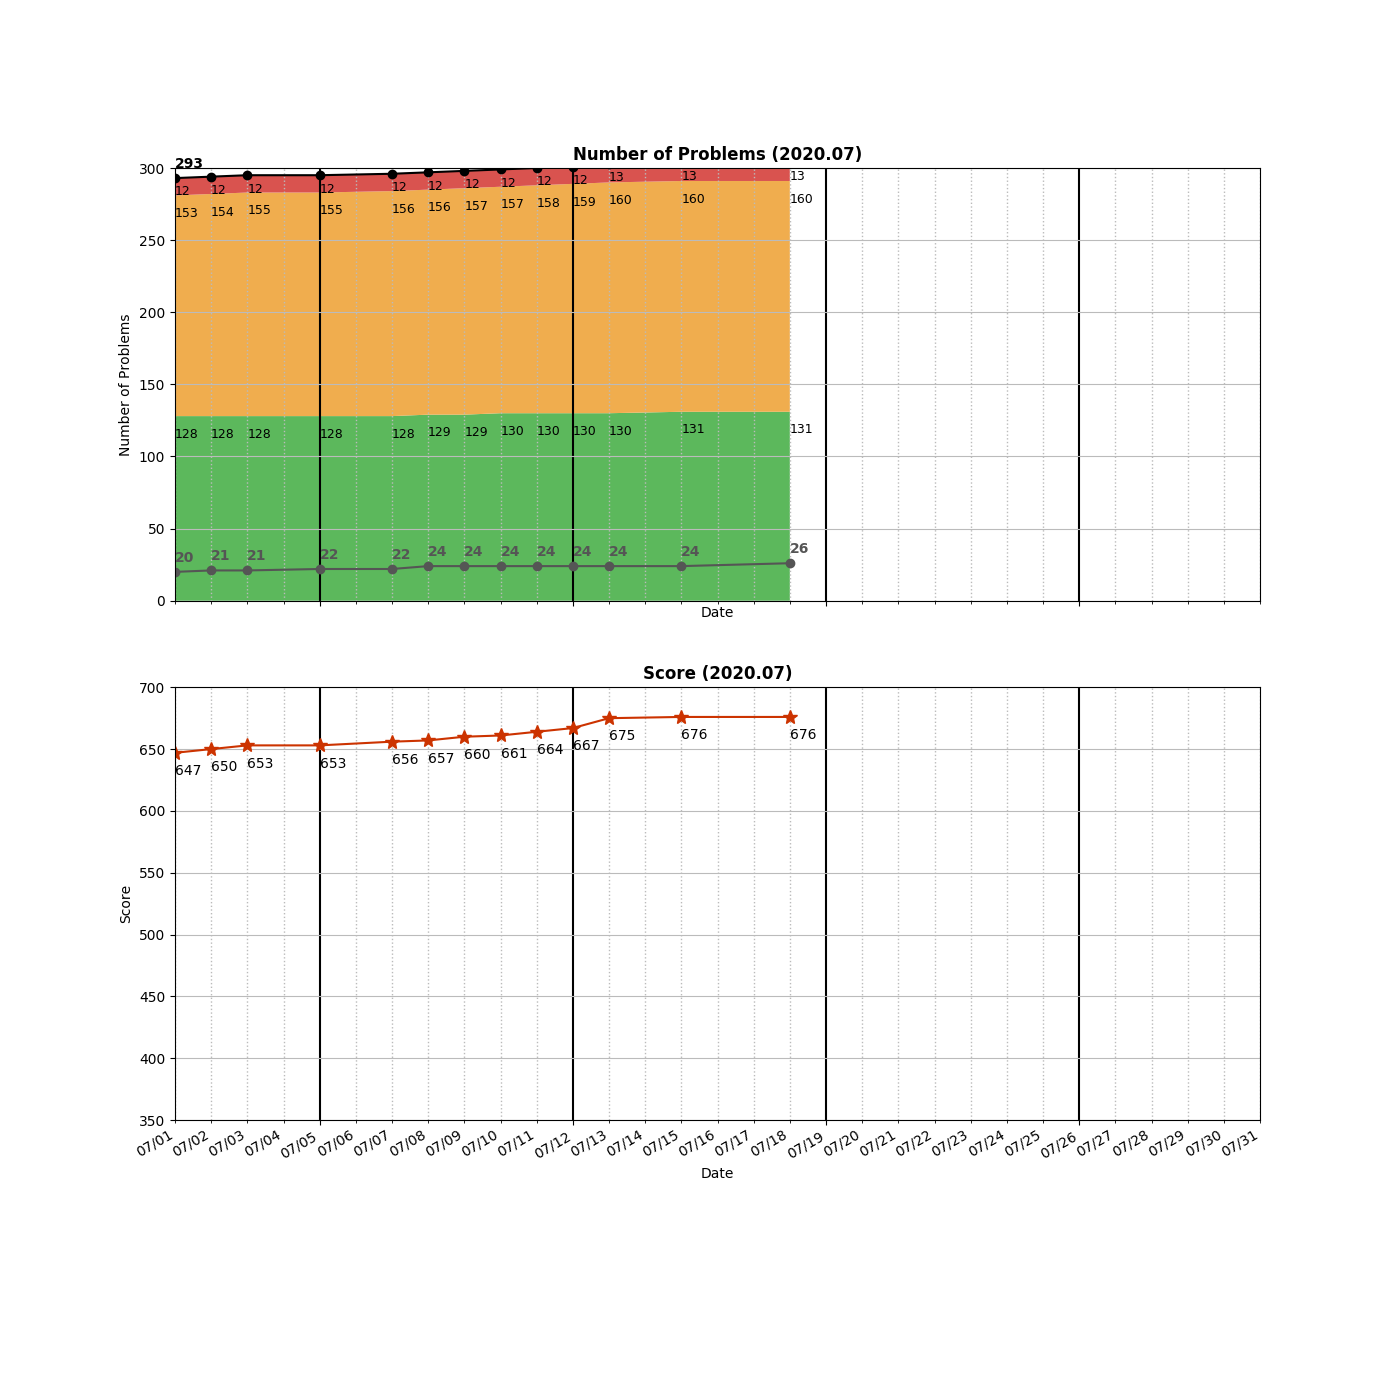
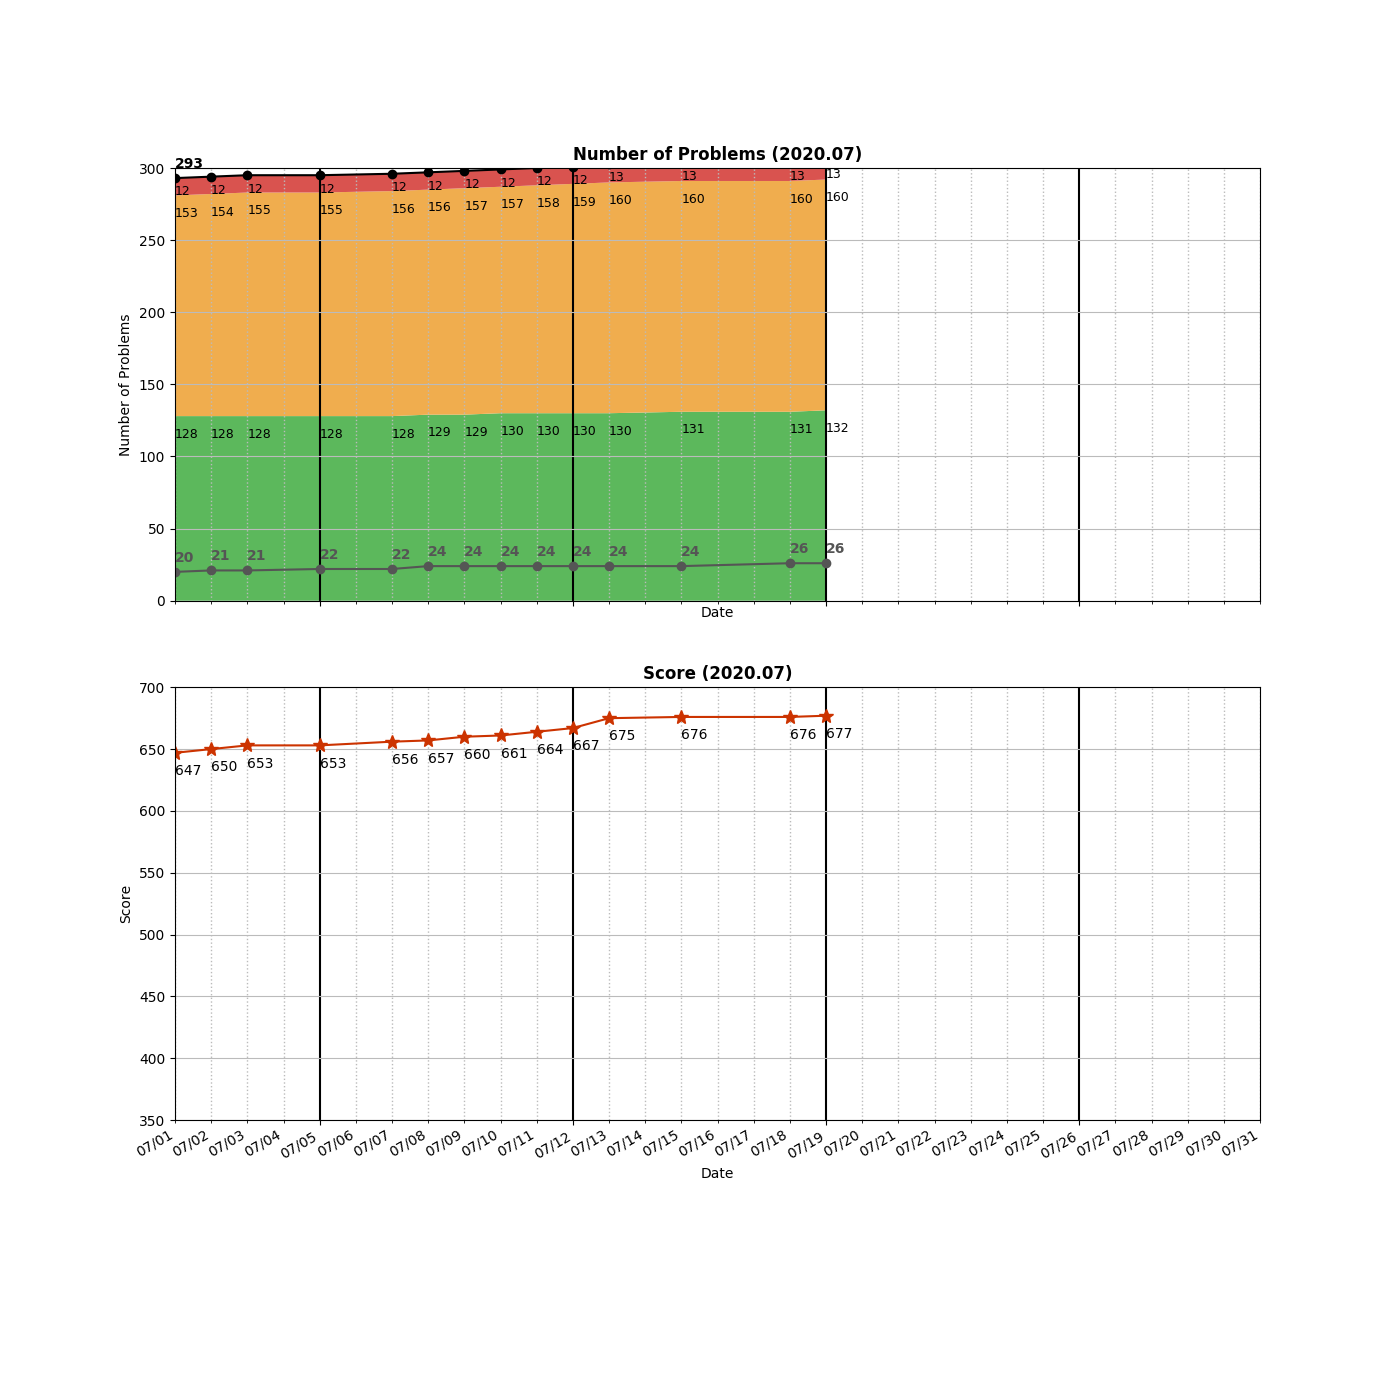
Added _1114_PrintInOrder.py

Changed region(s): [[0.5529, 0.1229, 0.6143, 0.43]]

diff --git a/algo/concurrency/_1114_PrintInOrder.py b/algo/concurrency/_1114_PrintInOrder.py
@@ -1,0 +1,26 @@
+class Foo:
+    def __init__(self):
+        pass
+        self.done1 = False
+        self.done2 = False
+
+    def first(self, printFirst: 'Callable[[], None]') -> None:
+        
+        # printFirst() outputs "first". Do not change or remove this line.
+        printFirst()
+        self.done1 = True
+
+
+    def second(self, printSecond: 'Callable[[], None]') -> None:
+        while not self.done1:
+            continue
+        
+        # printSecond() outputs "second". Do not change or remove this line.
+        printSecond()
+        self.done2 = True
+
+    def third(self, printThird: 'Callable[[], None]') -> None:
+        while not (self.done1 and self.done2):
+            continue
+        # printThird() outputs "third". Do not change or remove this line.
+        printThird()

diff --git a/README.md b/README.md
@@ -77,6 +77,8 @@ algo
 │   └── _1300_SumOfMutatedArrayClosestToTarget.py
 ├── bits
 │   └── _0268_MissingNumber.py
+├── concurrency
+│   └── _1114_PrintInOrder.py
 ├── data-structure
 │   ├── _0346_MovingAverageFromDataStream.py
 │   ├── _0362_DesignHitCounter.py
@@ -329,7 +331,7 @@ algo
     ├── _0127_WordLadder_TLE.py
     └── _0127_WordLadder_wrong.py
 
-26 directories, 302 files
+27 directories, 303 files
 
 =====================================
 ============= Local Repo ============
@@ -624,6 +626,7 @@ _1048_LongestStringChain.py
 _1079_LetterTilePossibilities.py
 _1086_HighFive.py
 _1099_TwoSumLessThanK.py
+_1114_PrintInOrder.py
 _1143_LongestCommonSubsequence.py 
 _1197_MinimumKnightMoves.py
 _1207_UniqueNumberOfOccurrences.py
@@ -636,7 +639,7 @@ _1358_NumberOfSubstringsContainingAllThreeCharacters.py
 _1391_CheckIfThereIsAValidPathInAGrid.py
 _1427_PerformStringShifts.py
 =====================================
-Num of Python Practice:  301
+Num of Python Practice:  302
 
 
 =====================================
@@ -934,6 +937,7 @@ Num of Python Practice:  301
  1079 Letter Tile Possibilities
  1086 High Five
  1099 Two Sum Less Than K
+ 1114 Print in Order
  1143 Longest Common Subsequence
  1197 Minimum Knight Moves
  1207 Unique Number of Occurrences
@@ -947,11 +951,11 @@ Num of Python Practice:  301
  1426 Counting Elements
  1427 Perform String Shifts
 =====================================
-Solved / Total (Easy)  :  131 /  424
-Solved / Total (Medium):  160 /  774
-Solved / Total (Hard)  :   13 /  318
-Solved / Total (All)   :  304 / 1516
-Total Score            :  676
+Solved / Total (Easy)  :  132 /  426
+Solved / Total (Medium):  160 /  776
+Solved / Total (Hard)  :   13 /  319
+Solved / Total (All)   :  305 / 1521
+Total Score            :  677
 =====================================
 
 ```
